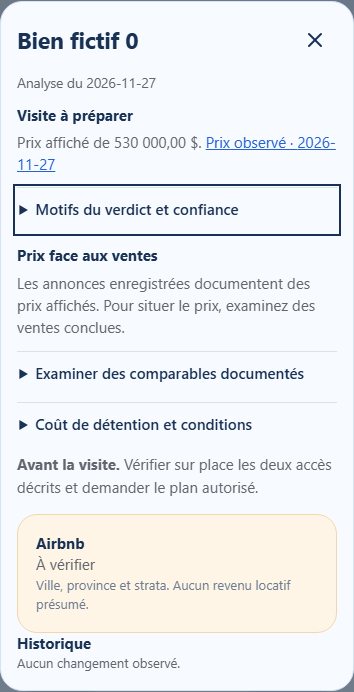
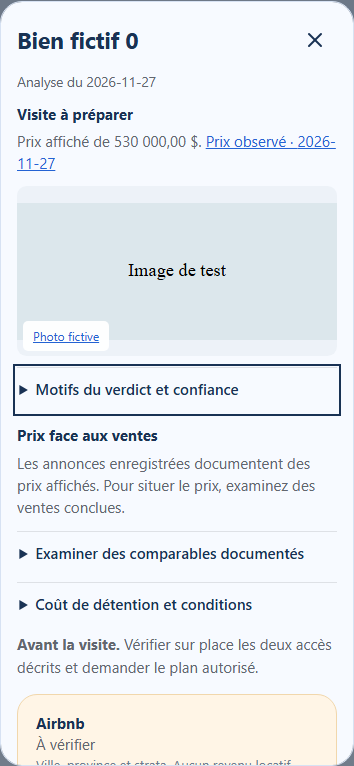
Show the attributed photo inside each open project dossier

diff --git a/apps/web/src/ui/OpportunityDossier.tsx b/apps/web/src/ui/OpportunityDossier.tsx
@@ -4,6 +4,7 @@ import type { VehicleCard } from '../vehicle-api';
 import type { Evidence } from '../../../worker/src/property-model';
 import { currentFact, localDay, projectDecision, vehicleAsks } from '../opportunity-analysis';
 import { ComparableSales } from './ComparableSales';
+import { ListingPhoto } from './ListingPhoto';
 import './opportunity-dossier.css';
 
 const money = (n:number) => new Intl.NumberFormat('fr-CA',{style:'currency',currency:'CAD',maximumFractionDigits:2}).format(n);
@@ -60,6 +61,8 @@ export function OpportunityDossier(props:Props) {
     <p className="decision-date">Analyse du <time dateTime={new Date(at).toISOString()}>{localDay(at)}</time></p>
     <h3>{projectDecision(card,at)}</h3>
     <p>Prix affiché{card.priceCad.value==null?' inconnu':' de '+money(card.priceCad.value)}{props.kind==='vehicle'?' avant taxes':''}. <Citation fact={card.priceCad} label="Prix observé"/></p>
+    <ListingPhoto key={card.primaryPhoto?.url} photo={card.primaryPhoto}
+      label={props.kind === 'property' ? props.card.address : props.card.title}/>
     <details><summary>Motifs du verdict et confiance</summary>
       <ul>{card.criteria.map(c=><li key={c.id}><strong>{names[c.id]}</strong>{c.id==='bedrooms' && c.evidence.value!=null?' · '+String(c.evidence.value):''} · {c.id==='budget'&&!currentFact(card.priceCad,at)?'à reconfirmer':c.pass===null?'à documenter':c.pass?'point favorable':'écart avec le projet'}. <Citation fact={c.evidence} label="Preuve"/></li>)}</ul>
       <p>Le verdict porte sur les critères documentés dans l’annonce. La confiance sur le prix de marché reste limitée. <Citation fact={card.statusEvidence} label="Statut observé"/></p>

diff --git a/apps/web/src/ui/opportunity-dossier.css b/apps/web/src/ui/opportunity-dossier.css
@@ -13,3 +13,7 @@
 .decision-sales button {display:block;margin:.65rem 0;padding:.45rem .7rem;}
 
 .listing-photo-loading {position:absolute;inset:0;display:grid;place-items:center;background:#edf2f8;color:#314967;}
+.opportunity-dossier .property-photo { margin: .65rem 0; background: #edf2f8; border-radius: .6rem; }
+.opportunity-dossier .property-photo img { object-fit: contain; border-radius: inherit; }
+.opportunity-dossier .property-photo figcaption a { display: inline-flex; align-items: center; min-height: 24px; padding-inline: .25rem; font-size: .75rem; }
+.opportunity-dossier .property-photo-empty { margin: .5rem 0; }
